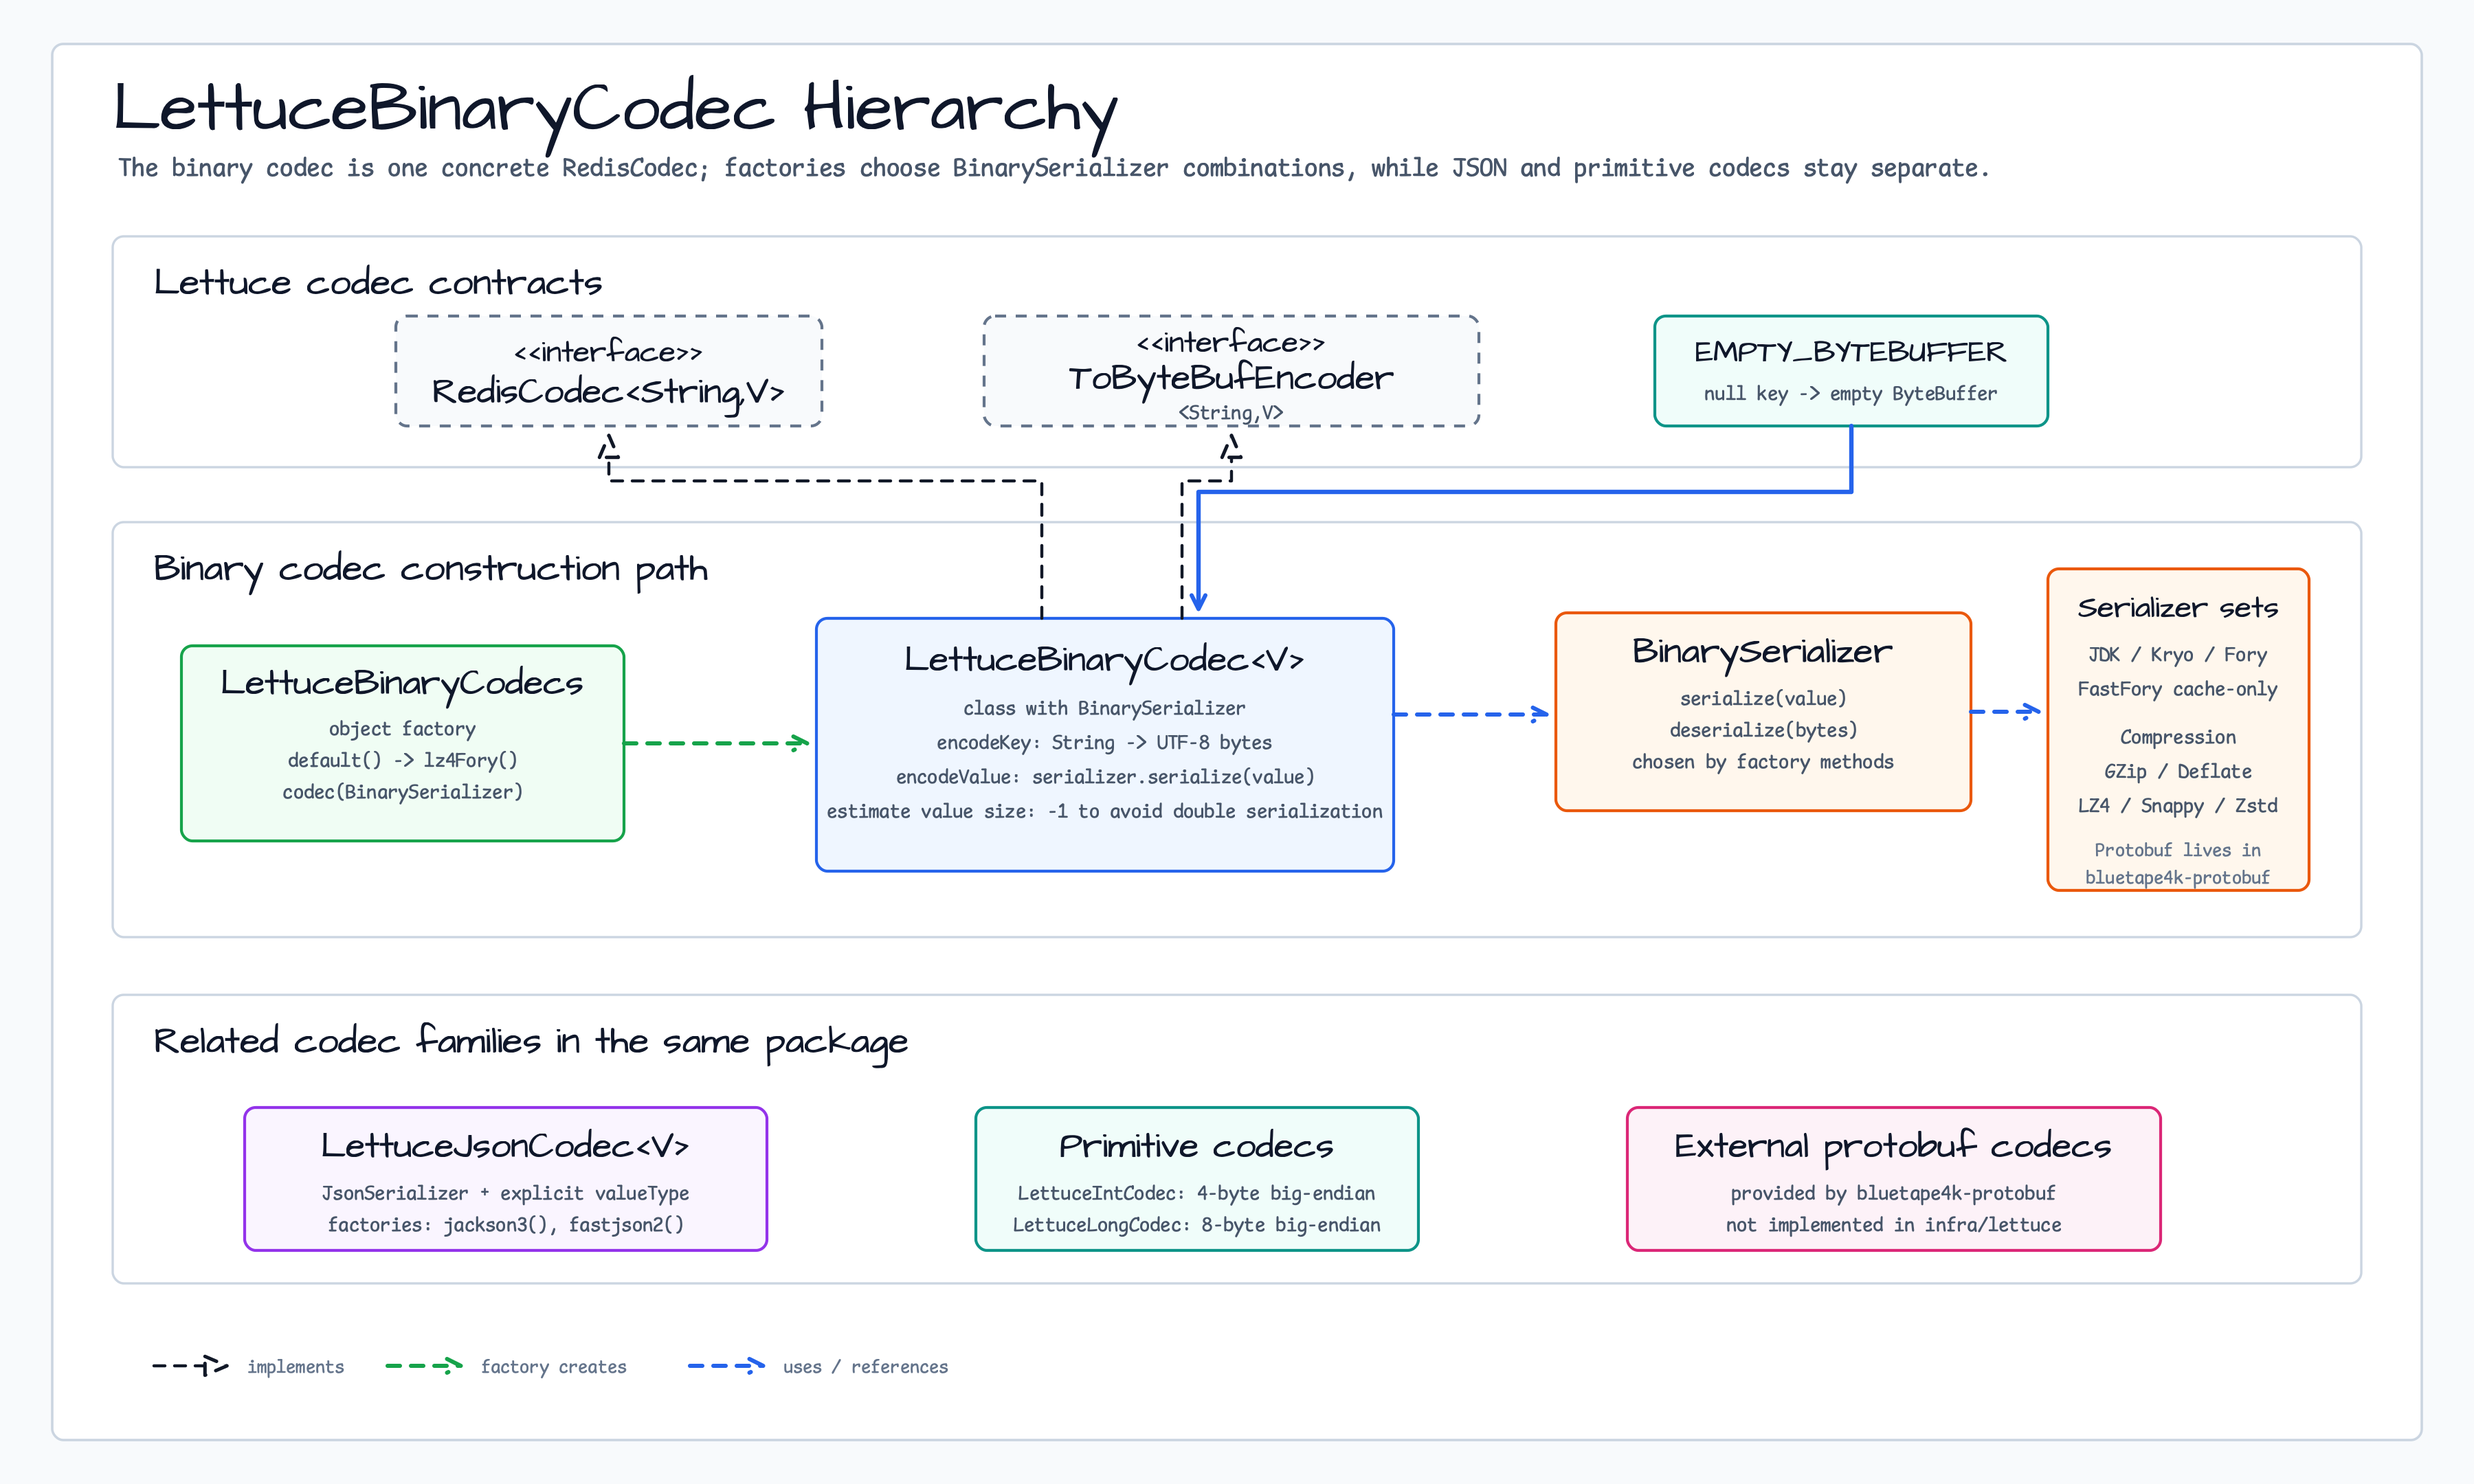
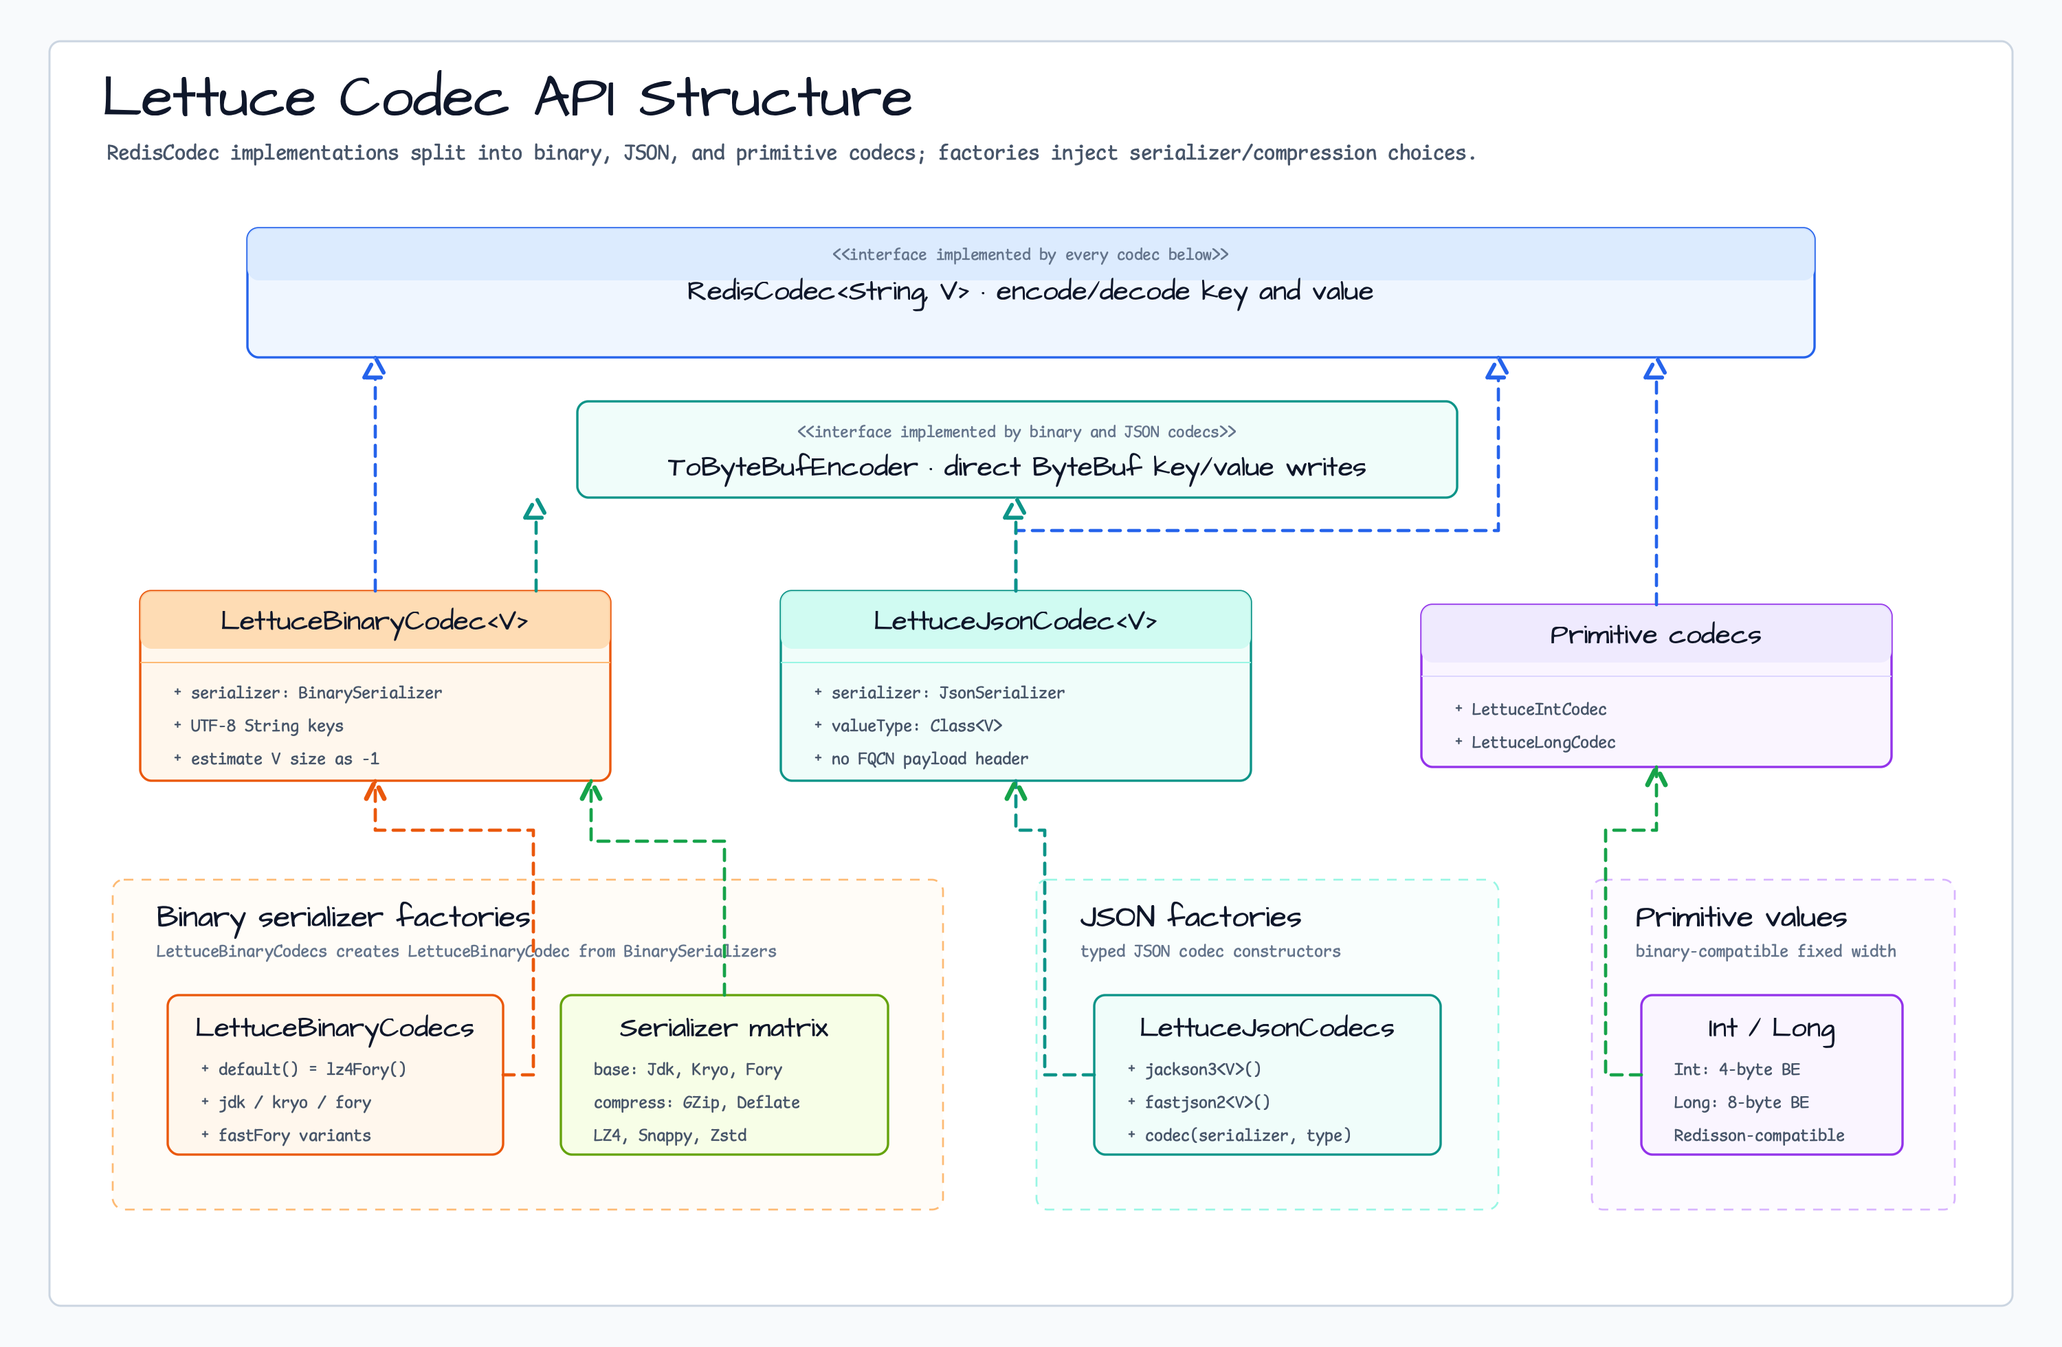
docs: clarify lettuce diagrams
Redraw the Lettuce README visuals so the diagrams describe the source-backed API families, codec contracts, and loaded-map read/write-through flow instead of stale hierarchy wording.\n\nConstraint: README diagrams must follow the bluetape4k fireworks style with Architects Daughter and Comic Mono fonts.\nRejected: Reusing the old class-hierarchy labels | the source exposes parallel API families and codec contracts, not one inheritance tree.\nConfidence: high\nScope-risk: narrow\nDirective: Keep future Lettuce diagrams source-first and visually inspect sequence branches before committing.\nTested: Regenerated SVG/PNG assets; parsed all Lettuce SVG files as XML; rendered all three SVGs with CairoSVG; scanned for forbidden diagram patterns and strokeWidth markers; verified README image links; ran git diff --check; visually inspected the three PNGs.\nNot-tested: Gradle build was not run because this is documentation and generated image asset work only.

diff --git a/infra/lettuce/README.ko.md b/infra/lettuce/README.ko.md
@@ -148,17 +148,17 @@ dependencies {
 
 ## 다이어그램
 
-### 분산 Primitive 클래스 계층
+### 분산 Primitive API 패밀리
 
-![분산 Primitive 클래스 계층 다이어그램](../../docs/images/readme-diagrams/infra-lettuce-diagram-01.png)
+![분산 Primitive API 패밀리 다이어그램](../../docs/images/readme-diagrams/infra-lettuce-diagram-01.png)
 
 ### LettuceLoadedMap Read-Through / Write-Through 흐름
 
 ![LettuceLoadedMap Read-Through / Write-Through 흐름 다이어그램](../../docs/images/readme-diagrams/infra-lettuce-sequence-01.png)
 
-### LettuceBinaryCodec 계층
+### Lettuce Codec API 구조
 
-![LettuceBinaryCodec 계층 다이어그램](../../docs/images/readme-diagrams/infra-lettuce-diagram-02.png)
+![Lettuce Codec API 구조 다이어그램](../../docs/images/readme-diagrams/infra-lettuce-diagram-02.png)
 
 ## 사용 예시
 

diff --git a/infra/lettuce/README.md b/infra/lettuce/README.md
@@ -150,17 +150,17 @@ dependencies {
 
 ## Diagrams
 
-### Distributed Primitive Class Hierarchy
+### Distributed Primitive API Families
 
-![Distributed Primitive Class Hierarchy diagram](../../docs/images/readme-diagrams/infra-lettuce-diagram-01.png)
+![Distributed Primitive API Families diagram](../../docs/images/readme-diagrams/infra-lettuce-diagram-01.png)
 
 ### LettuceLoadedMap Read-Through / Write-Through Flow
 
 ![LettuceLoadedMap Read-Through / Write-Through Flow diagram](../../docs/images/readme-diagrams/infra-lettuce-sequence-01.png)
 
-### LettuceBinaryCodec Hierarchy
+### Lettuce Codec API Structure
 
-![LettuceBinaryCodec Hierarchy diagram](../../docs/images/readme-diagrams/infra-lettuce-diagram-02.png)
+![Lettuce Codec API Structure diagram](../../docs/images/readme-diagrams/infra-lettuce-diagram-02.png)
 
 ## Usage Examples
 
